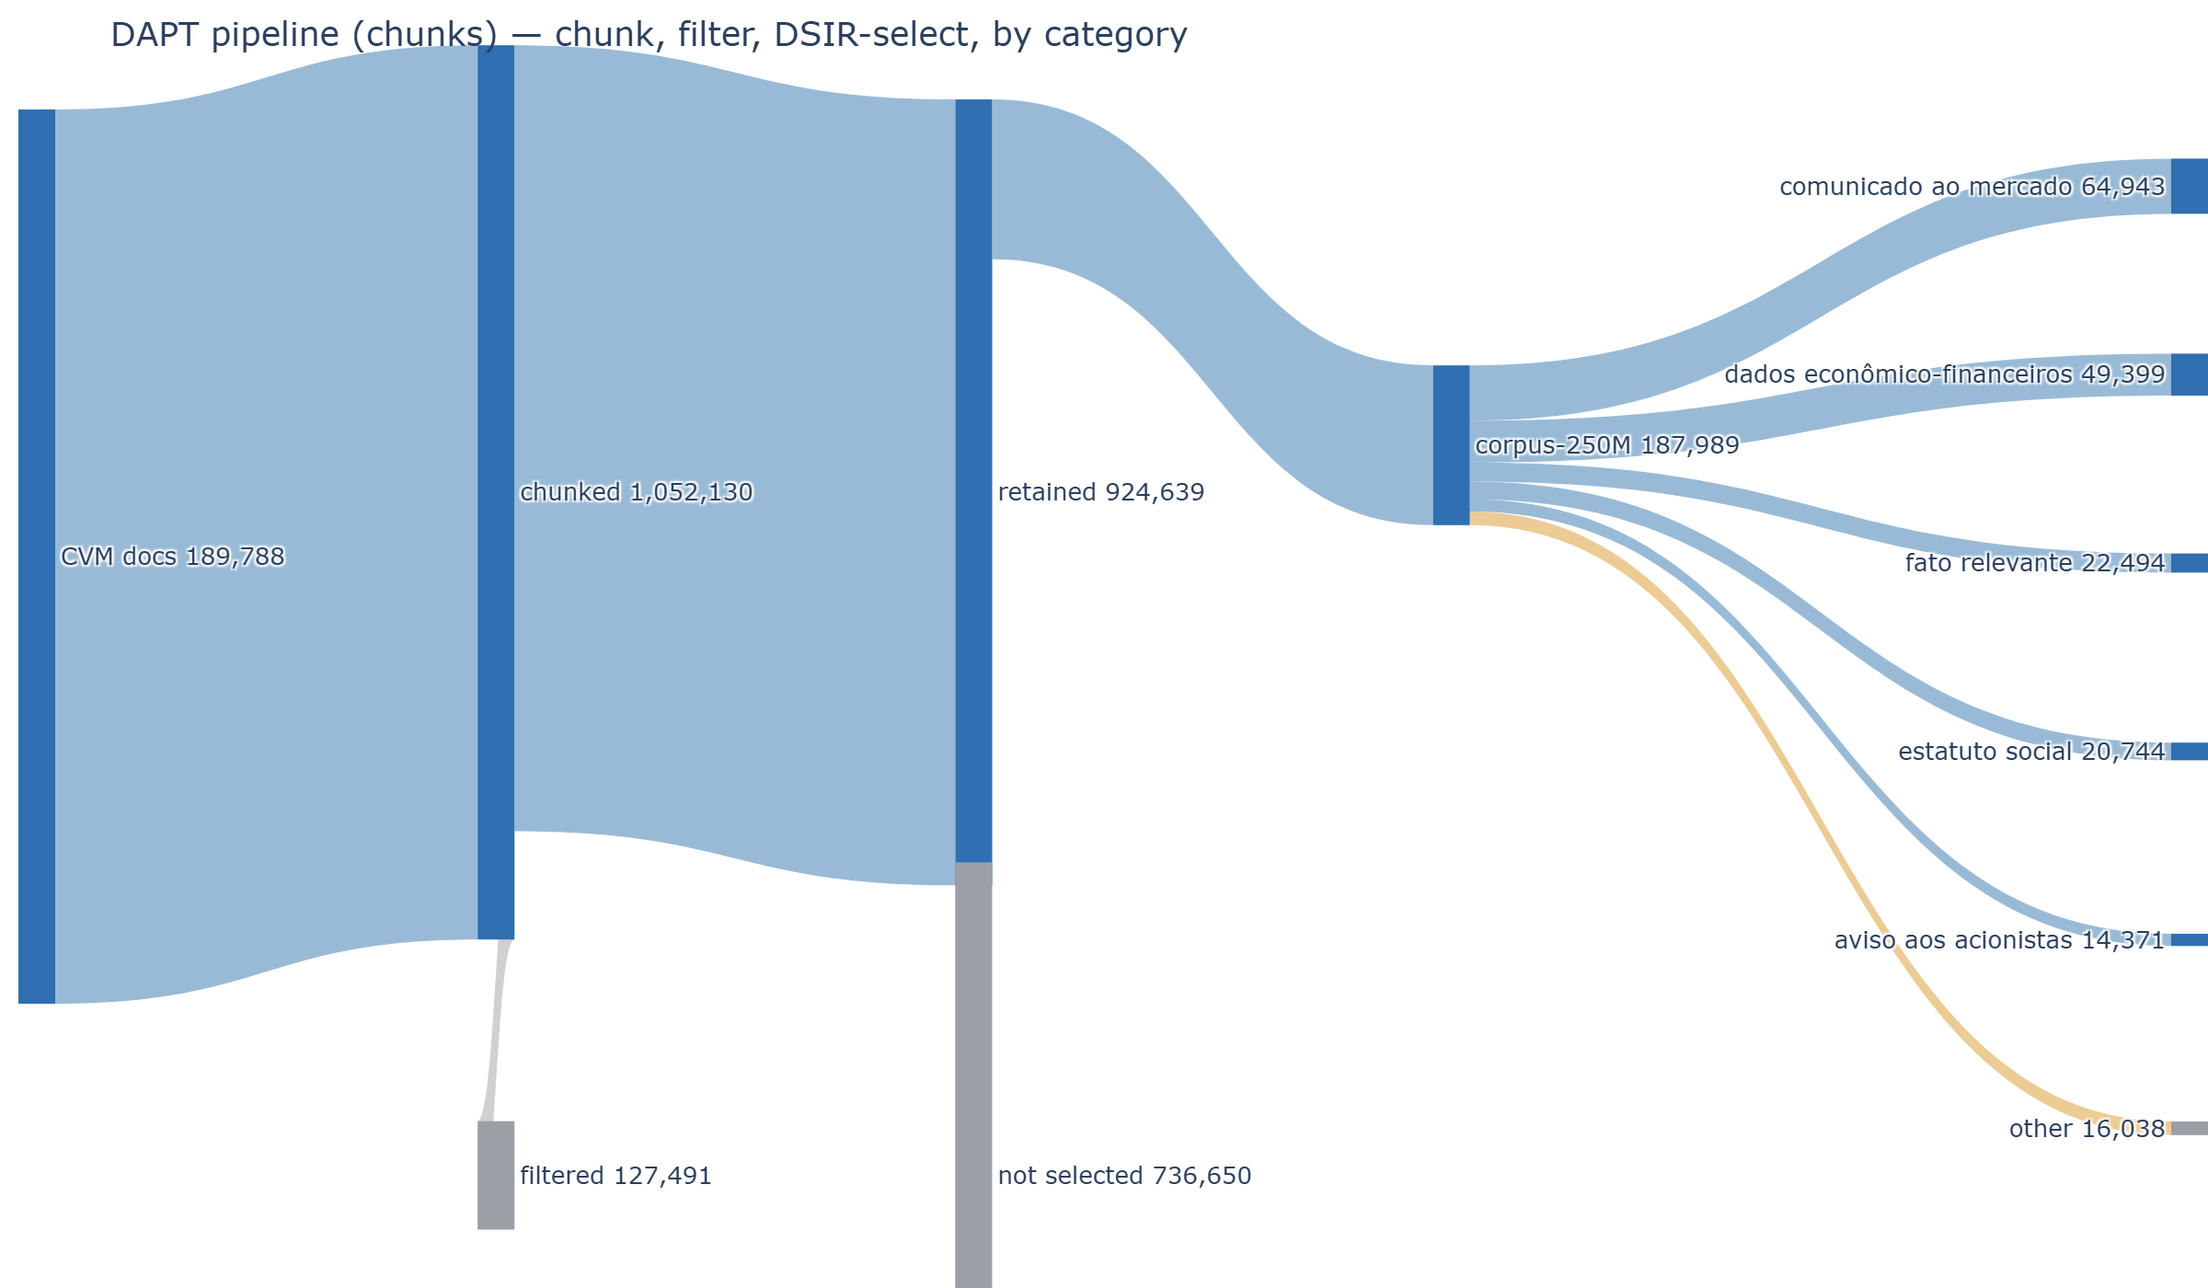
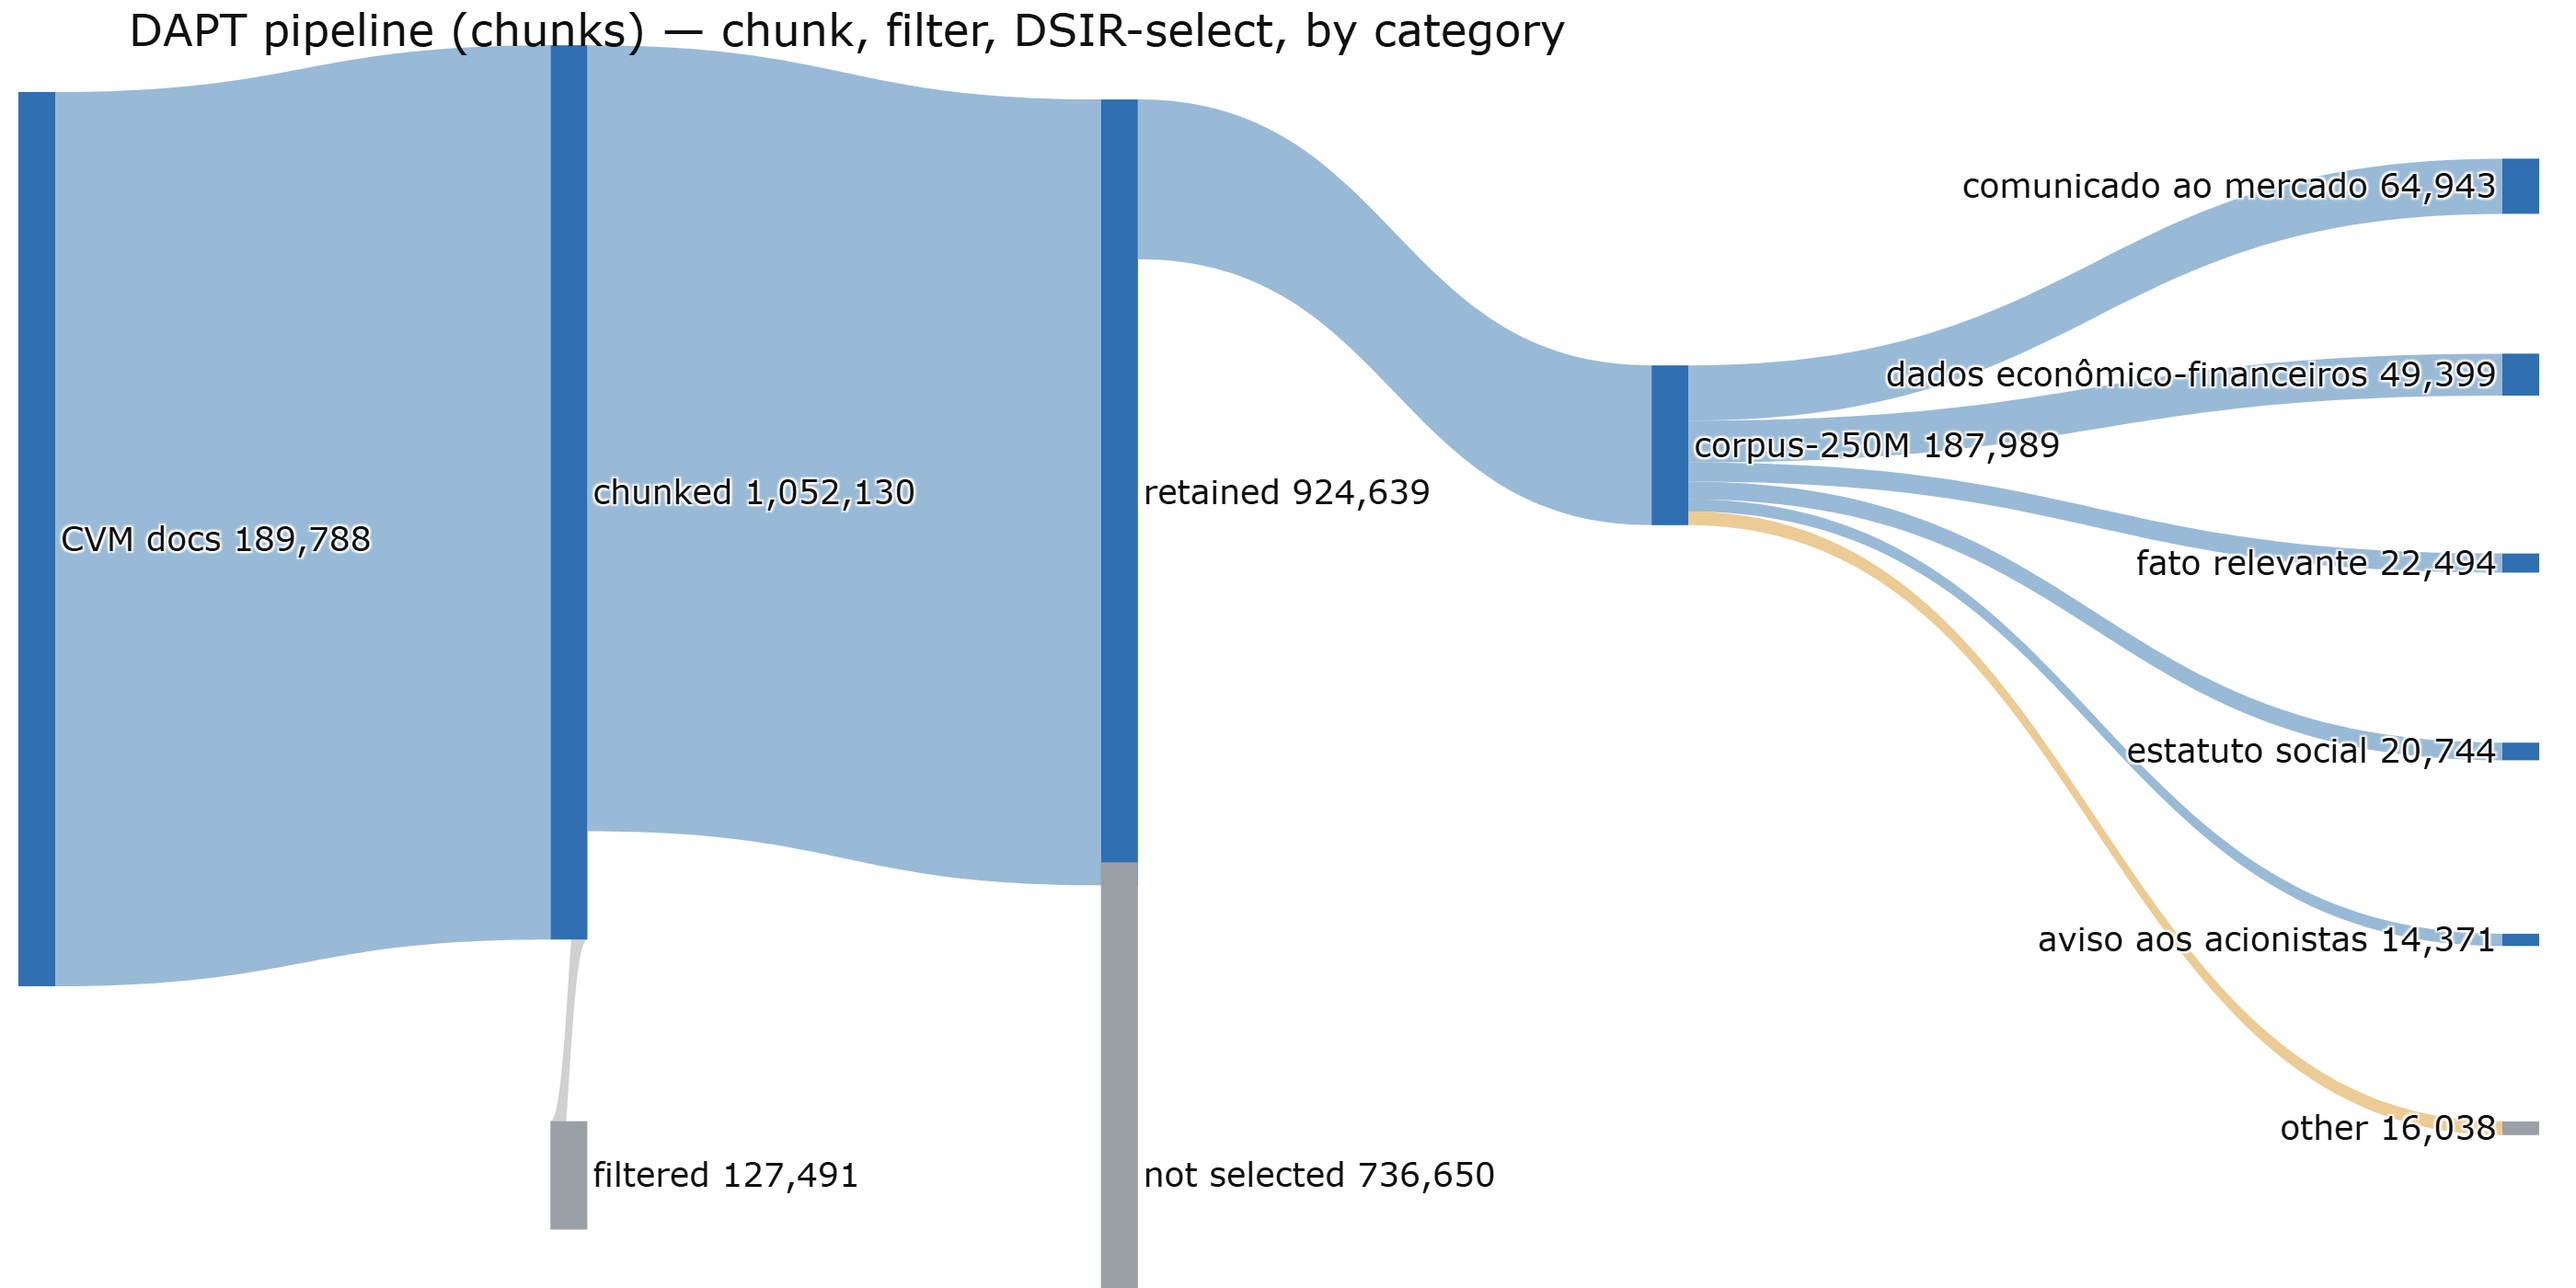
plots

diff --git a/logun/extra/plotly_sankey.py b/logun/extra/plotly_sankey.py
@@ -39,9 +39,10 @@ def sankey(nodes, xs, ys, sources, targets, values, colors, nodeColors,
                   line=dict(color="rgba(0,0,0,0)", width=0)),
         link=dict(source=sources, target=targets, value=values, color=colors),
     ))
-    fig.update_layout(title=title, font=dict(size=13),
-                      margin=dict(l=10, r=10, t=50, b=10),
-                      width=1200, height=700)
+    fig.update_layout(title=dict(text=title, font=dict(size=24, color="#0f0f0f")),
+                      font=dict(size=18, color="#0f0f0f"),
+                      margin=dict(l=10, r=30, t=50, b=10),
+                      width=1400, height=700)
     fig.write_image(out, scale=2)
     print(f"Saved {out}")
 
@@ -61,7 +62,7 @@ def sftFigure():
              f"scored {translated:,}",
              f"final {final:,}", f"echoes+unmatched {echoes + unmatched:,}",
              f"kept (q>=0.5) ~{kept:,}", f"below ~{below:,}"]
-    xs = [0.0, 0.0, 0.0, 0.0, 0.22, 0.44, 0.62, 0.62, 0.80, 0.80, 1.0, 1.0]
+    xs = [0.0, 0.0, 0.0, 0.0, 0.20, 0.40, 0.60, 0.60, 0.76, 0.76, 1.0, 1.0]
     ys = [0.16, 0.52, 0.76, 0.90, 0.32, 0.32, 0.88, 0.32, 0.28, 0.62, 0.20, 0.52]
     sources = [0, 1, 2, 3, 4, 4, 5, 6, 6, 7, 7]
     targets = [4, 4, 4, 4, 5, 6, 7, 8, 9, 10, 11]

diff --git a/logun/extra/dapt_loss.py b/logun/extra/dapt_loss.py
@@ -59,6 +59,7 @@ def plotStates(states: list[str], outDir: str) -> str:
         )
     plt.xlabel("epoch",)
     plt.ylabel("loss",)
+    plt.title("DAPT training loss (logun-base-250M)",)
     plt.legend()
     plt.tight_layout()
     pngPath = os.path.join(

diff --git a/logun/PAPER.md b/logun/PAPER.md
@@ -173,6 +173,7 @@ the translate script works with a pipeline that automatically injects added endp
 
 The translation completed smoothly, creating a final corpus of about ~63k rows after dedups and quality control checks from the pipeline, for SFT, the researcher is going to filter out samples that have a COMET score < 0.5, making sure that the quality presented is valid. This final version of the dataset is about ~56k rows.
 
+
 # dapt
 https://sol.sbc.org.br/index.php/bwaif/article/view/24960 (finbert ptbr, 2023)
 https://arxiv.org/abs/2004.10964 (dont stop pretraining, 2020)
